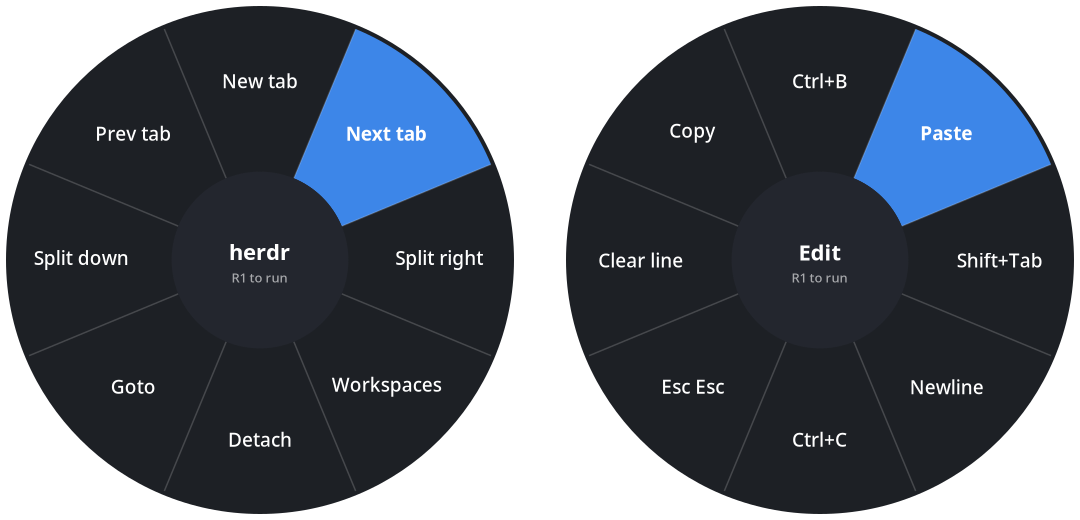
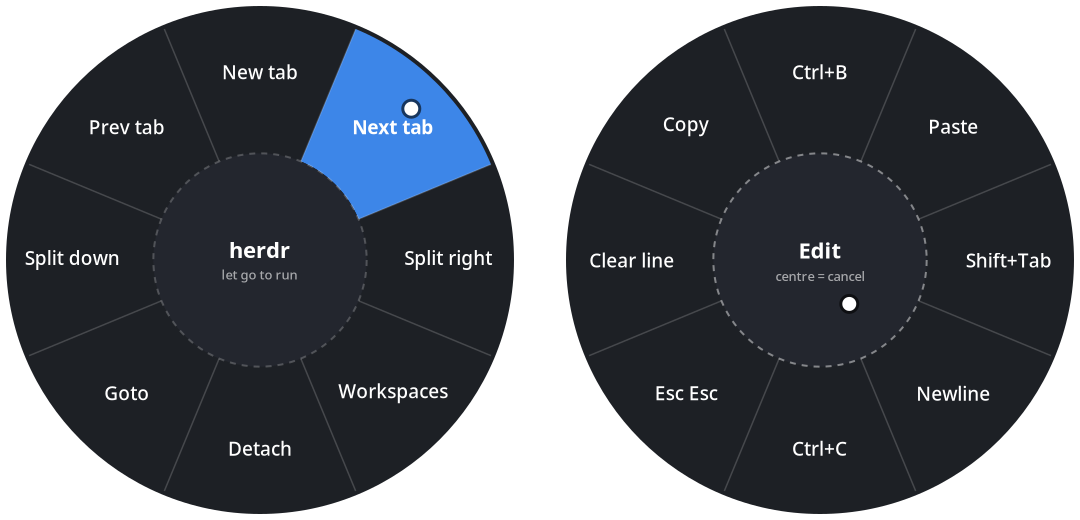
Live dot, centre cancel zone, and reliable flick detection
- Draw a dot that follows the stick; the dashed centre circle is the
  cancel zone (rest the dot there to cancel).
- Run on thumb lift (touch sensor), so swaying never fires; for side
  flicks the sensor misses, run when the stick snaps back to the middle.
- Evaluate every controller report in the input thread instead of only
  the newest one per redraw, so quick flicks aren't missed.
- Require 50 ms on a different slot before switching, so the spring's
  overshoot on release can't pick the opposite slot.
- Log why a wheel closed without running anything.

diff --git a/deck_wheel.py b/deck_wheel.py
@@ -3,8 +3,9 @@
 
 Touch a stick  -> its wheel appears
 Push the stick -> highlight a slot
-Let go         -> the stick snaps back and the slot runs (R1 also runs it)
-Ease back      -> moving the stick slowly back to the centre cancels
+Let go         -> lifting your thumb off the stick runs the slot (R1 also runs it);
+                  for side flicks the touch sensor misses, a quick snap back runs it
+Ease back      -> resting the dot in the centre circle, thumb still on, cancels
 
 It also makes room for Steam's on-screen keyboard: when the keyboard opens, the
 active window shrinks to the space above it, and it is restored when the keyboard
@@ -34,9 +35,14 @@ from evdev import UInput, ecodes as e  # noqa: E402
 APP_ID = "io.github.deckwheel"
 SIZE = 520                 # window is SIZE x SIZE px
 SHOW_DEFLECT = 9000        # show the wheel when pushed this far even without the touch sensor
-SELECT_DEFLECT = 14000     # push past this to highlight a slot (of 32767)
-RELEASE_DEFLECT = 6000     # below this the stick counts as back in the centre
-FLICK_TIME = 0.12          # back to centre faster than this = let go (run); slower = eased back (cancel)
+HUB = 0.42                 # centre circle (cancel zone) radius as a fraction of the wheel
+SELECT_DEFLECT = int(32767 * HUB)   # dot outside the centre circle = a slot is highlighted
+CANCEL_DWELL = 0.15        # dot resting in the centre circle this long, thumb still on = cancel
+                           # (a slot runs when the thumb lifts off the stick while it is highlighted)
+SWITCH_HOLD = 0.05         # a different slot must stay pointed at this long to replace the
+                           # highlighted one (ignores the spring overshoot when you let go)
+SNAP_DEFLECT = 7000        # side flicks (touch sensor never sees the thumb): the stick snapping
+SNAP_TIME = 0.12           # back this close to the middle within SNAP_TIME runs the slot
 HIDE_DELAY = 0.15          # seconds after the thumb lifts before the wheel hides
 PREFIX_GAP = 0.08          # seconds between Ctrl+B and the herdr action key
 
@@ -228,6 +234,7 @@ class Wheel(Gtk.DrawingArea):
     def __init__(self):
         super().__init__()
         self.title, self.slots, self.selected = "", [], None
+        self.dot = (0.0, 0.0)       # stick position, -1..1 (x right, y up)
         self.set_content_width(SIZE)
         self.set_content_height(SIZE)
         self.set_draw_func(self.draw)
@@ -236,7 +243,8 @@ class Wheel(Gtk.DrawingArea):
         if not self.slots:          # hidden: window stays mapped but fully transparent
             return
         cx, cy = w / 2, h / 2
-        r_out, r_in = min(w, h) / 2 - 6, min(w, h) * 0.17
+        r_out = min(w, h) / 2 - 6
+        r_in = r_out * HUB
         n = len(self.slots) or 1
         step = 2 * math.pi / n
         cr.set_source_rgba(0.08, 0.09, 0.11, 0.96)
@@ -261,11 +269,26 @@ class Wheel(Gtk.DrawingArea):
             rl = (r_in + r_out) / 2 + 8
             self._text(cr, label, cx + rl * math.cos(mid), cy + rl * math.sin(mid), 19,
                        bold=(i == self.selected))
-        cr.set_source_rgba(0.14, 0.15, 0.18, 1)
+        cr.set_source_rgba(0.14, 0.15, 0.18, 1)        # centre = cancel zone
         cr.arc(cx, cy, r_in, 0, 2 * math.pi)
         cr.fill()
-        self._text(cr, self.title, cx, cy - 8, 22, bold=True)
-        self._text(cr, "let go to run", cx, cy + 18, 13, alpha=0.6)
+        cr.set_source_rgba(1, 1, 1, 0.22 if self.selected is not None else 0.45)
+        cr.set_line_width(2)
+        cr.set_dash([6, 6])
+        cr.arc(cx, cy, r_in, 0, 2 * math.pi)
+        cr.stroke()
+        cr.set_dash([])
+        self._text(cr, self.title, cx, cy - 10, 22, bold=True)
+        self._text(cr, "let go to run" if self.selected is not None else "centre = cancel",
+                   cx, cy + 16, 13, alpha=0.6)
+        dx, dy = self.dot                              # live stick position
+        px, py = cx + dx * (r_out - 10), cy - dy * (r_out - 10)
+        cr.set_source_rgba(0, 0, 0, 0.6)
+        cr.arc(px, py, 10, 0, 2 * math.pi)
+        cr.fill()
+        cr.set_source_rgba(1, 1, 1, 1)
+        cr.arc(px, py, 7, 0, 2 * math.pi)
+        cr.fill()
 
     @staticmethod
     def _text(cr, text, x, y, size, bold=False, alpha=1.0):
@@ -287,7 +310,11 @@ class App(Gtk.Application):
         self.last_touch = 0.0
         self.prev_r1 = False
         self.last_high = 0.0        # last time the stick was pushed out far enough to select
-        self.pending = False        # an update is already queued for the UI thread
+        self.last_draw = 0.0
+        self.prev_touched = False
+        self.pending = False        # a redraw is already queued for the UI thread
+        self.view = {"title": "", "slots": [], "selected": None, "dot": (0.0, 0.0)}
+        self.candidate, self.candidate_since = None, 0.0   # slot being switched to
         self.locked = None          # side that just fired; ignore it until the thumb lifts
 
     def do_activate(self):
@@ -304,7 +331,7 @@ class App(Gtk.Application):
         self.hold()
         if DEMO:                    # --demo <left|right> <slot>: show a wheel for 4 s (for testing)
             self.open(DEMO[0])
-            self.selected = self.wheel.selected = int(DEMO[1])
+            self.selected = self.view["selected"] = int(DEMO[1])
             GLib.timeout_add(4000, lambda: self.quit())
             return
         threading.Thread(target=self.read_loop, daemon=True).start()
@@ -315,7 +342,8 @@ class App(Gtk.Application):
         if surf:
             surf.set_input_region(cairo.Region())   # mouse goes straight to the app below
 
-    # -- input thread
+    # -- input thread: every controller report (~250 Hz) goes through step(), so quick
+    #    flicks are never missed; the UI thread only draws the latest state.
     def read_loop(self):
         while True:
             fd = find_deck_hidraw()
@@ -325,28 +353,14 @@ class App(Gtk.Application):
             try:
                 while True:
                     d = os.read(fd, 64)              # blocks until the next report
-                    os.set_blocking(fd, False)
-                    try:                             # drain anything queued; keep the newest
-                        while True:
-                            d2 = os.read(fd, 64)
-                            if len(d2) == 64:
-                                d = d2
-                    except BlockingIOError:
-                        pass
-                    os.set_blocking(fd, True)
                     if len(d) == 64 and d[2] == 0x09:
                         parse(d, self.left, self.right)
-                        if not self.pending:
-                            self.pending = True
-                            GLib.idle_add(self.update, priority=GLib.PRIORITY_HIGH)
+                        self.step(time.time())
             except OSError:
                 os.close(fd)
                 time.sleep(1)
 
-    # -- UI thread
-    def update(self):
-        self.pending = False
-        now = time.time()
+    def step(self, now):
         sticks = {"left": self.left, "right": self.right}
 
         def engaged(s):
@@ -362,34 +376,69 @@ class App(Gtk.Application):
         if self.active:
             s = sticks[self.active]
             mag = math.hypot(s.x, s.y)
-            if self.selected is not None and mag < RELEASE_DEFLECT:
-                # stick back in the centre: a quick snap-back runs the slot, easing back cancels
-                if now - self.last_high <= FLICK_TIME:
-                    self.fire(f"let go after {int((now - self.last_high) * 1000)} ms")
+            if mag > self.dbg["peak"]:
+                self.dbg.update(peak=mag, ang=math.degrees(math.atan2(s.x, s.y)) % 360)
+            self.dbg["touch"] += s.touched
+            self.touch_seen |= s.touched
+            self.dbg["n"] += 1
+            self.view["dot"] = (max(-1.0, min(1.0, s.x / 32767)), max(-1.0, min(1.0, s.y / 32767)))
+            if mag > SELECT_DEFLECT:                 # update the highlight first ...
+                self.last_high = now
+                ang = math.atan2(s.x, s.y) % (2 * math.pi)   # 0 = up, clockwise
+                n = len(WHEELS[self.active][1])
+                sel = int(round(ang / (2 * math.pi / n))) % n
+                if self.selected is None or sel == self.selected:
+                    self.selected, self.candidate = sel, None
+                elif sel != self.candidate:
+                    self.candidate, self.candidate_since = sel, now
+                elif now - self.candidate_since >= SWITCH_HOLD:
+                    self.selected, self.candidate = sel, None
+            if self.selected is not None:            # ... then check for a let-go
+                if self.prev_touched and not s.touched:
+                    self.fire("thumb lifted")        # thumb lifted off the stick: run the slot
+                    self.prev_r1, self.prev_touched = R1["down"], False
+                    return
+                if (not self.touch_seen and mag < SNAP_DEFLECT
+                        and now - self.last_high <= SNAP_TIME):
+                    self.fire(f"snapped back in {int((now - self.last_high) * 1000)} ms")
                     self.prev_r1 = R1["down"]
-                    return False
-                print(f"{self.active} wheel: eased back, cancelled", flush=True)
-                self.selected = self.wheel.selected = None
-                self.wheel.queue_draw()
+                    return
+                if (mag < SELECT_DEFLECT and (s.touched or not self.touch_seen)
+                        and now - self.last_high > CANCEL_DWELL):
+                    print(f"{self.active} wheel: dot in centre circle, cancelled", flush=True)
+                    self.selected = None
+            self.prev_touched = s.touched
             if engaged(s):
                 self.last_touch = now
-                if mag > SELECT_DEFLECT:
-                    self.last_high = now
-                    ang = math.atan2(s.x, s.y) % (2 * math.pi)   # 0 = up, clockwise
-                    n = len(WHEELS[self.active][1])
-                    sel = int(round(ang / (2 * math.pi / n))) % n
-                    if sel != self.selected:
-                        self.selected = self.wheel.selected = sel
-                        self.wheel.queue_draw()
                 if R1["down"] and not self.prev_r1:
                     if self.selected is None:
                         print(f"{self.active} wheel: R1 pressed but no slot highlighted", flush=True)
+                    else:
+                        self.fire("R1")
                         self.prev_r1 = True
-                        return False
-                    self.fire("R1")
+                        return
             elif now - self.last_touch > HIDE_DELAY:
+                d = self.dbg
+                print(f"{self.active} wheel: closed, nothing run (peak {int(d['peak'])}/{SELECT_DEFLECT} "
+                      f"at {int(d['ang'])} deg, touched {d['touch']}/{d['n']} reports, "
+                      f"selected {self.selected})", flush=True)
                 self.close()
+            self.view["selected"] = self.selected
+            self.request_draw(now)
         self.prev_r1 = R1["down"]
+
+    def request_draw(self, now, force=False):
+        if (force or now - self.last_draw > 0.011) and not self.pending:
+            self.last_draw, self.pending = now, True
+            GLib.idle_add(self.draw, priority=GLib.PRIORITY_HIGH)
+
+    # -- UI thread
+    def draw(self):
+        self.pending = False
+        v = dict(self.view)
+        self.wheel.title, self.wheel.slots = v["title"], v["slots"]
+        self.wheel.selected, self.wheel.dot = v["selected"], v["dot"]
+        self.wheel.queue_draw()
         return False
 
     def fire(self, how):
@@ -401,17 +450,19 @@ class App(Gtk.Application):
 
     def open(self, side):
         print(f"{side} wheel: open", flush=True)
-        self.active, self.selected = side, None
-        self.wheel.title, self.wheel.slots = WHEELS[side]
-        self.wheel.selected = None
+        self.active, self.selected, self.candidate = side, None, None
+        self.dbg = {"peak": 0.0, "ang": 0.0, "touch": 0, "n": 0}
+        self.touch_seen = False     # did the touch sensor see the thumb during this use?
+        title, slots = WHEELS[side]
+        self.view.update(title=title, slots=slots, selected=None, dot=(0.0, 0.0))
+        self.prev_touched = True
         self.last_touch = time.time()
-        self.wheel.queue_draw()
+        self.request_draw(self.last_touch, force=True)
 
     def close(self):
         self.active = self.selected = None
-        self.wheel.slots, self.wheel.selected = [], None
-        self.wheel.queue_draw()
-
+        self.view.update(slots=[], selected=None)
+        self.request_draw(time.time(), force=True)
 
 DEMO = sys.argv[2:4] if sys.argv[1:2] == ["--demo"] else None
 

diff --git a/README.md b/README.md
@@ -5,14 +5,14 @@ On-screen hotkey wheels for the Steam Deck's sticks in **Desktop Mode**.
 Steam's own radial menus don't draw on the KDE Wayland desktop, so deck-wheel
 draws its own wheel and types the hotkeys itself.
 
-![The two wheels: herdr (left stick) and Edit (right stick)](docs/wheels.png)
+![The herdr wheel with a slot picked, and the Edit wheel with the dot in the centre cancel zone](docs/wheels.png)
 
 | Step | Action |
 |---|---|
 | Touch a stick | Its wheel appears in the middle of the screen |
-| Push the stick | Highlights a slot |
-| **Let go** | The stick snaps back and the slot runs (R1 also runs it) |
-| Ease the stick back slowly | Cancels |
+| Push the stick | A dot follows the stick; the slot under it is highlighted |
+| **Let go** | Lifting your thumb runs the slot; for side flicks the touch sensor misses, the stick snapping back runs it (R1 also works) |
+| Ease the dot into the dashed centre circle | Cancels |
 
 Default wheels (clockwise from the top), built for [herdr](https://herdr.dev) and Claude Code:
 
@@ -34,8 +34,10 @@ height is set by `KEYBOARD_TOP` in `kwin/deckwheel-osk/contents/code/main.js`.
 ## How it works
 
 - **Input:** reads the Deck controller's raw HID reports (`/dev/hidraw*`, report `0x09`)
-  alongside Steam: stick positions, the sticks' touch sensors, and R1. It always acts on
-  the newest report, so the wheel doesn't lag behind the stick.
+  alongside Steam: stick positions, the sticks' touch sensors, and R1. Every report (~250 Hz)
+  is evaluated in the input thread, so quick flicks aren't missed; the UI only draws the
+  latest state. Swaying with the thumb on the stick never runs a slot, and the spring's
+  overshoot on release can't switch to the opposite slot.
 - **Output:** types hotkeys through a `uinput` virtual keyboard, so it works in every app,
   Wayland-native ones included. It corrects the `-` key position for de/fi/se layouts.
 - **UI:** a GTK4 window that stays mapped, transparent and click-through. A KWin rule
